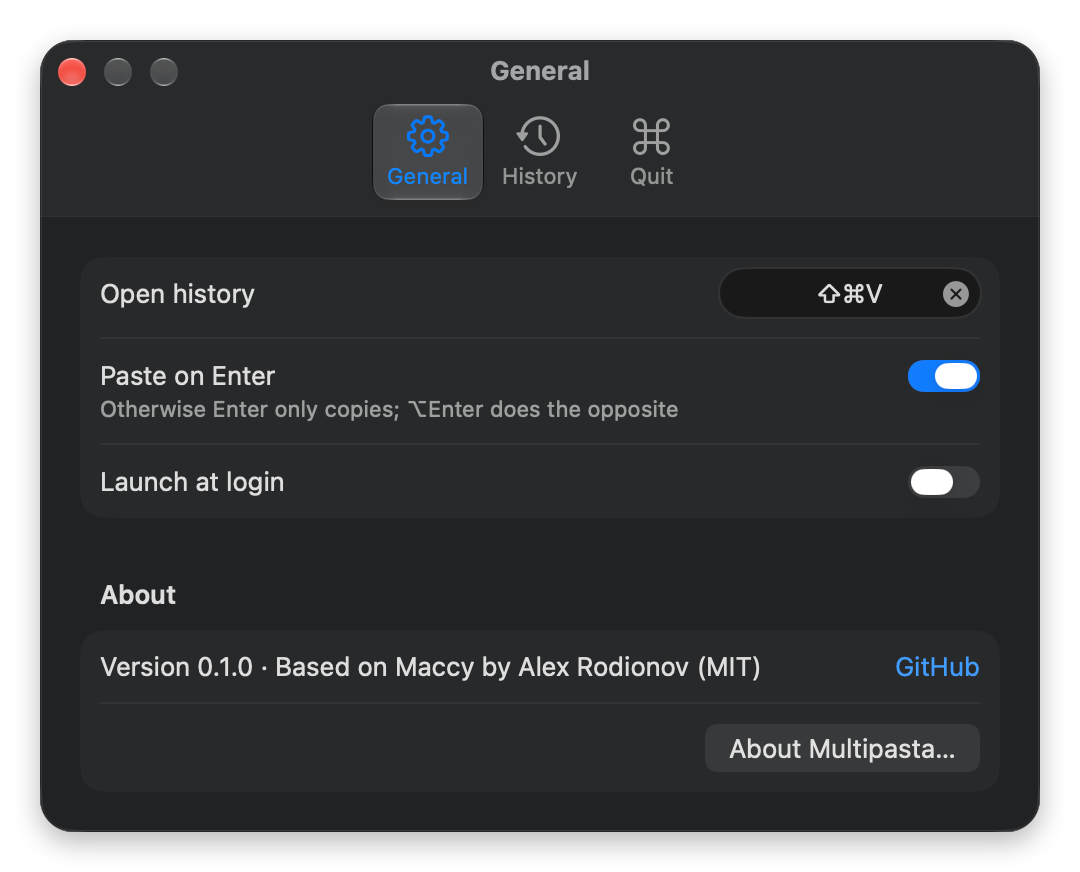
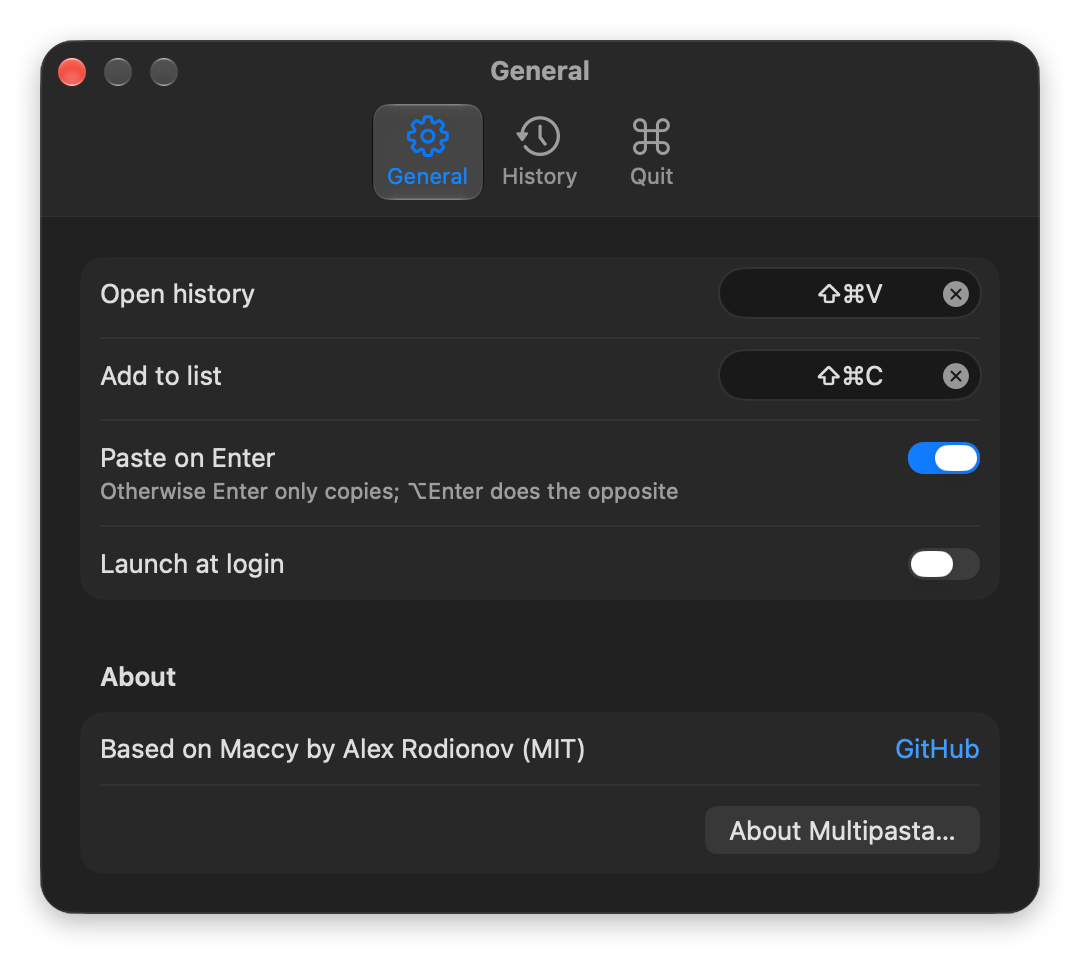
README screenshots for 0.2.0 without the version number

diff --git a/Maccy/Settings/GeneralSettingsTab.swift b/Maccy/Settings/GeneralSettingsTab.swift
@@ -7,6 +7,15 @@ import LaunchAtLogin
 // Maccy's own GeneralSettingsPane is kept untouched to keep upstream merges cheap;
 // the settings it had that are not shown here live in AdvancedSettingsSheet.
 struct GeneralSettingsTab: View {
+  /// README screenshots leave the version out, so they don't go stale with every release.
+  private static var hidesVersion: Bool {
+    #if DEBUG
+    return AppDelegate.readmeScreenshotAppearance != nil
+    #else
+    return false
+    #endif
+  }
+
   static let maccyURL = URL(string: "https://github.com/p0deje/Maccy")!
 
   private var appName: String {
@@ -78,7 +87,11 @@ struct GeneralSettingsTab: View {
           }
           .help(Self.maccyURL.absoluteString)
         } label: {
-          Text("VersionLine \(version)", tableName: "MultipastaSettings")
+          if Self.hidesVersion {
+            Text("BasedOnMaccyLine", tableName: "MultipastaSettings")
+          } else {
+            Text("VersionLine \(version)", tableName: "MultipastaSettings")
+          }
         }
 
         HStack {
